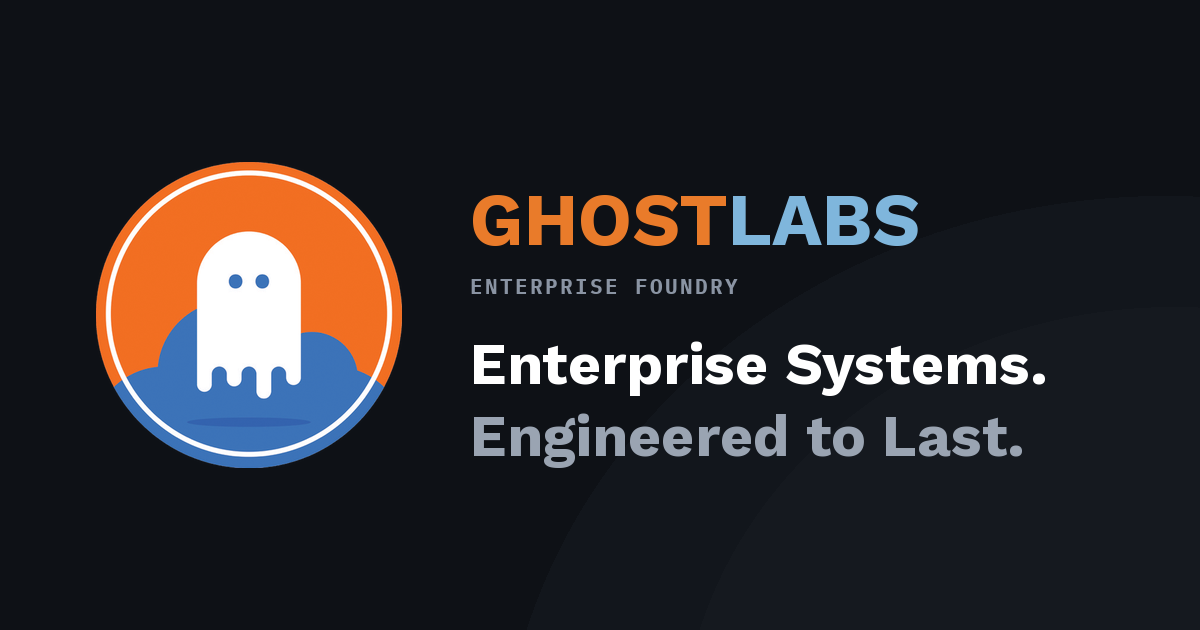
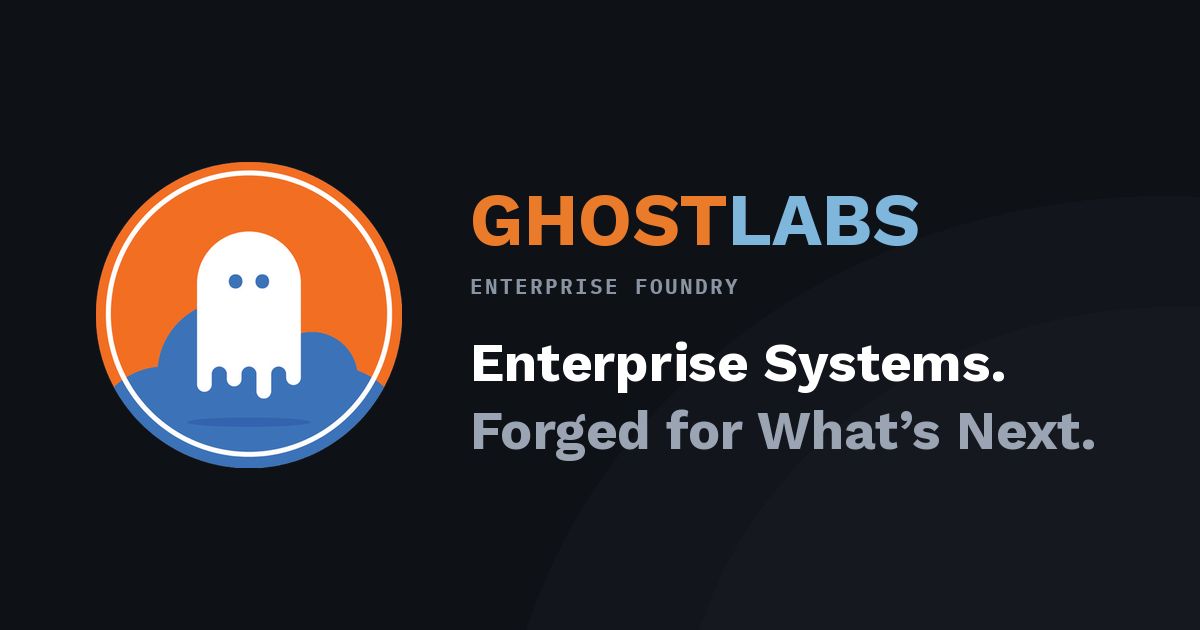
Enterprise Systems. Forged for What's Next.
"Engineered to Last" read like a warranty, and it was the flattest of the three
foundry lines — "Hauntingly Good" and "Forged In-House" both carry some voice.

Forging is the metallurgy Brand Foundry already uses, so the two now read as
siblings while Apps keeps the ghost pun. It also holds the tension the practice
actually sits in: forged means tested and tempered, what's next means pointed
forward. Proven and frontier in four words, without claiming either outright.

The hero and the Enterprise preview card both carry it.

Changed region(s): [[0.4008, 0.5429, 0.925, 0.754]]

diff --git a/enterprise/index.html b/enterprise/index.html
@@ -53,7 +53,7 @@
         </div>
       </div>
       <span class="eyebrow">Ghost Labs Enterprise Foundry</span>
-      <h1 style="margin: 0 auto 18px; max-width: 880px;">Enterprise Systems. <span class="grad">Engineered to Last</span>.</h1>
+      <h1 style="margin: 0 auto 18px; max-width: 880px;">Enterprise Systems. <span class="grad">Forged for What&rsquo;s Next</span>.</h1>
       <p class="lead" style="margin: 0 auto 28px; max-width: 660px;">
         Enterprise Foundry builds business software and the Microsoft Azure
         platforms it runs on. We design, build, and harden systems that hold up
